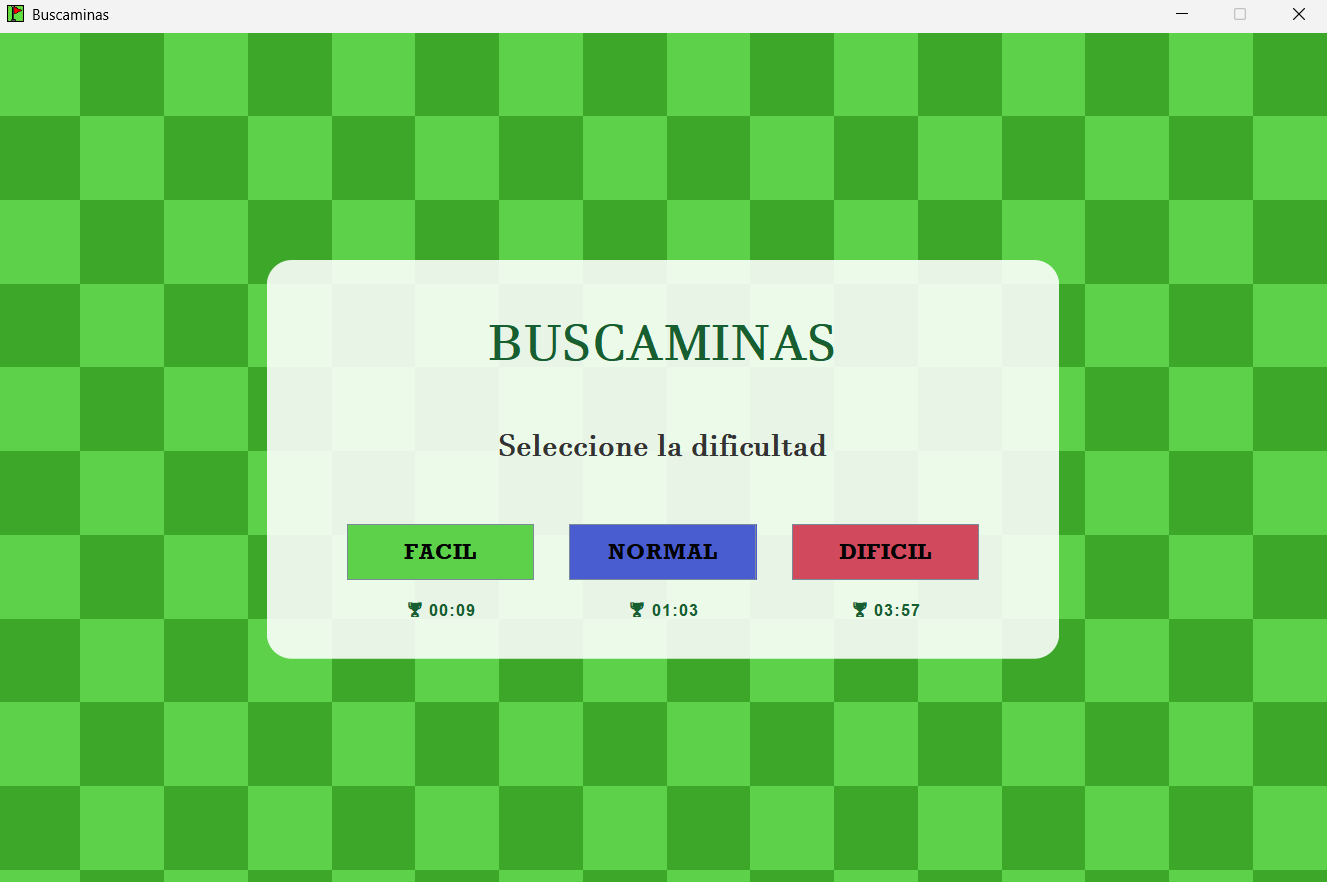
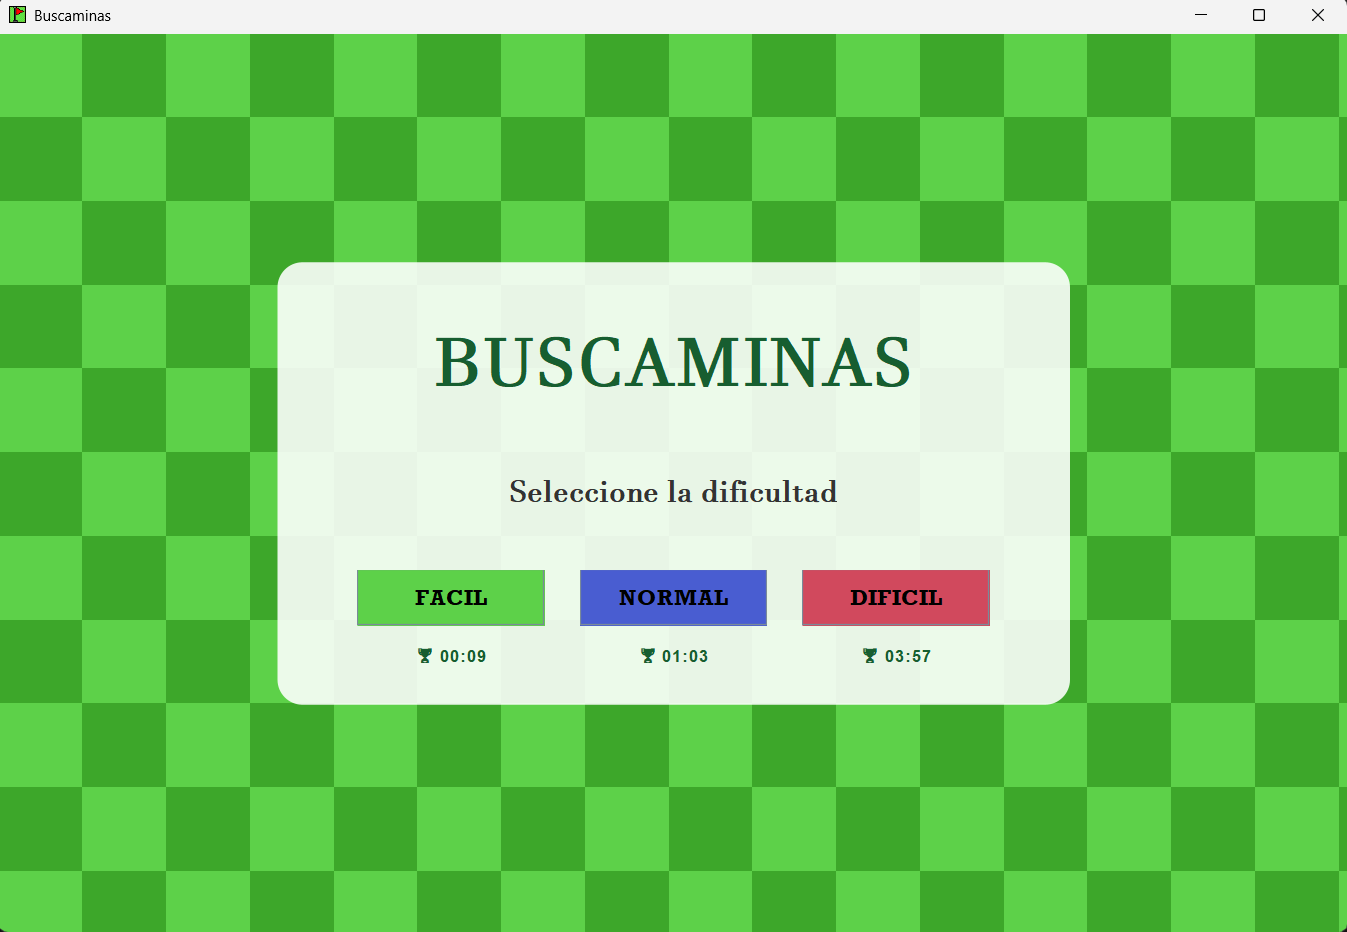
Actualización del README

diff --git a/README.md b/README.md
@@ -31,12 +31,14 @@ Las imágenes utilizadas en el juego (números, banderilla e icono de la aplicac
 
 ## Estructura
 
-- `Clases/Casilla.java` — Modelo de cada casilla del tablero
-- `Clases/Juego.java` — Lógica del juego
-- `Clases/Tablero.java` — Interfaz gráfica
-- `Clases/Records.java` — Gestor de los records en cada dificultad
+- `src/Clases/Casilla.java` — Modelo de cada casilla del tablero
+- `src/Clases/Juego.java` — Lógica del juego
+- `src/Clases/Tablero.java` — Interfaz gráfica
+- `src/Clases/Records.java` — Gestor de los records en cada dificultad
 - `src/App.java` — Main
 - `src/Imagenes/` — Recursos gráficos del juego
+- `docs/screenshot/` — Imagenes pare el README
+- `records.txt` — Documento de texto con los records
 
 ## Instalación y ejecución
 
@@ -49,8 +51,6 @@ javac -encoding UTF-8 -d bin src/App.java src/Clases/*.java
 cp -r src/Imagenes bin/
 java -cp bin App
 ```
-
-Los récords se guardan en `records.txt`, en la raíz.
 
 **Windows**
 ```
